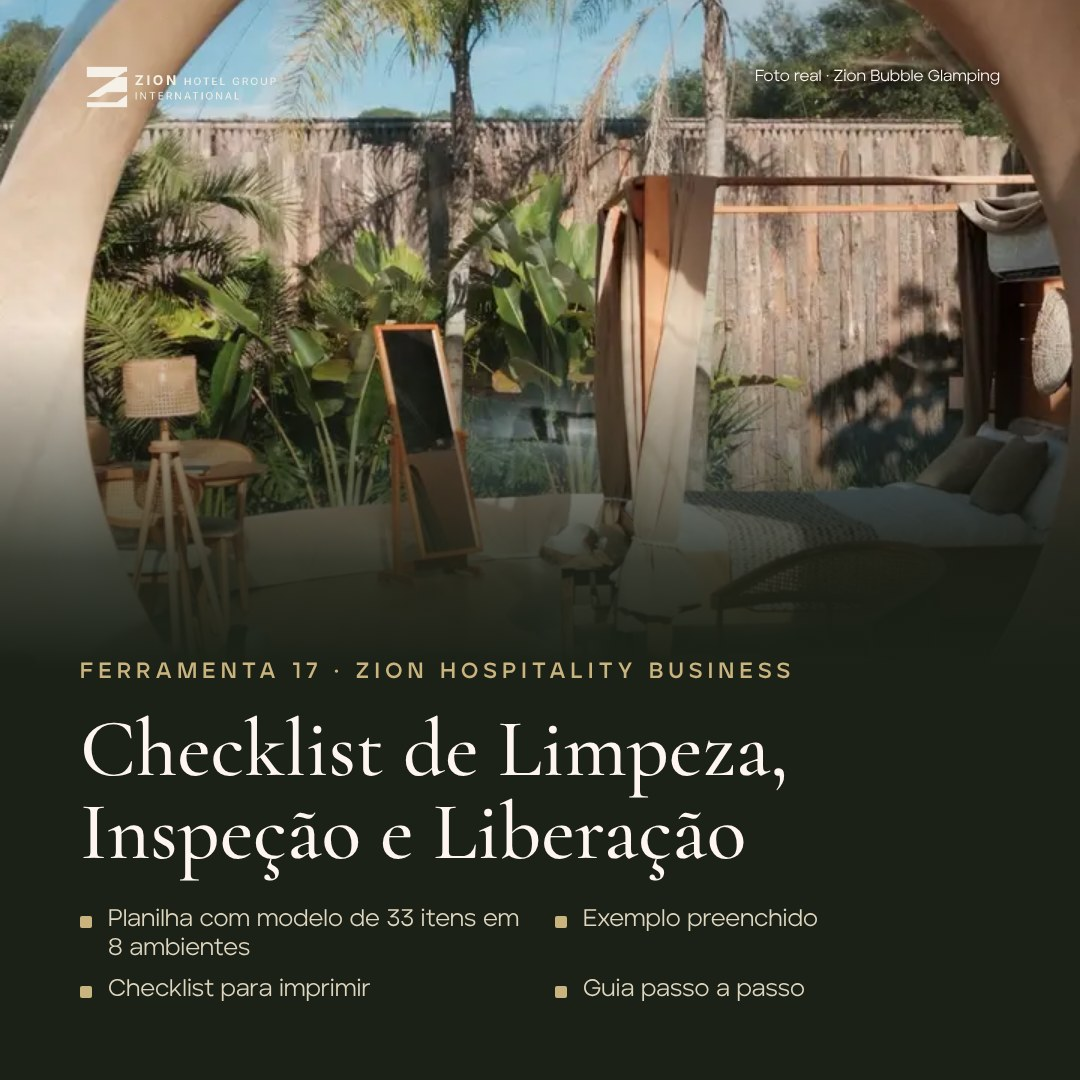
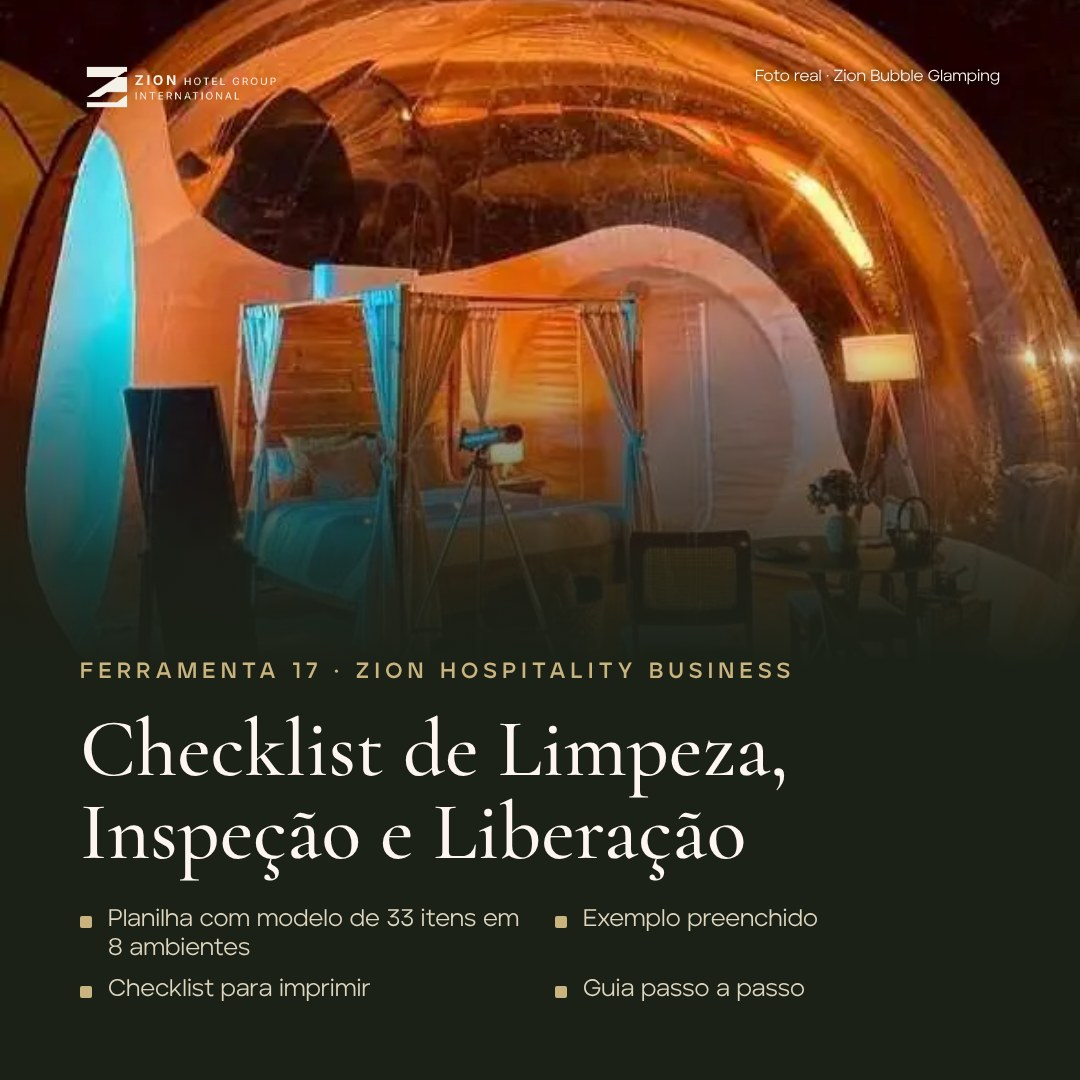
Capas no estilo de fim de tarde com fotos reais da Zion (store/noite e store/noturna)
Claude-Session: https://claude.ai/code/session_01BzUk5Z24QEezPbs2zCke5y

diff --git a/producao/utilitarios/build_entrega.py b/producao/utilitarios/build_entrega.py
@@ -7,7 +7,7 @@ P = R / "docs/p/adbc67069af26ae0"
 E = html.escape
 
 PRODUTOS = [
-    dict(pasta="checklist-17", num="17", foto="op05", titulo="Checklist de Limpeza, Inspeção e Liberação",
+    dict(pasta="checklist-17", num="17", foto="store/noite", pos="center 88%", zoom=1.0, titulo="Checklist de Limpeza, Inspeção e Liberação",
          promessa="Aprenda o passo a passo para limpar, conferir e liberar cada unidade com o mesmo padrão, sabendo quem fez, quem conferiu e o que ficou pendente.",
          itens=["Planilha com modelo de 33 itens em 8 ambientes", "Exemplo preenchido", "Checklist para imprimir", "Guia passo a passo"],
          passos=["Leia o guia (cerca de 15 minutos).", "Abra o exemplo e veja uma troca preenchida.", "Na planilha em branco, ajuste o modelo à sua unidade e defina quem limpa e quem confere.", "Use na próxima troca de hóspede: libere só quando a situação ficar verde."],
@@ -15,7 +15,7 @@ PRODUTOS = [
                    ("Checklist-Limpeza-Zion-EM-BRANCO.xlsx", "Planilha · versão em branco", "Excel, Google Sheets ou LibreOffice"),
                    ("Checklist-Limpeza-Zion-EXEMPLO.xlsx", "Planilha · exemplo preenchido", "Dados fictícios"),
                    ("Checklist-Imprimivel.pdf", "Checklist para imprimir", "PDF · 2 páginas")]),
-    dict(pasta="kit-mensagens-11", num="11", foto="op11", titulo="Kit de Mensagens de Chegada e Saída",
+    dict(pasta="kit-mensagens-11", num="11", foto="store/noturna", pos="78% 75%", zoom=1.45, titulo="Kit de Mensagens de Chegada e Saída",
          promessa="Aprenda o passo a passo para enviar, no momento certo, as mensagens de confirmação, acesso, chegada, apoio durante a estadia e saída.",
          itens=["Planilha que monta 10 mensagens", "Data de envio de cada uma", "Modelos em PDF", "Guia passo a passo"],
          passos=["Leia o guia (cerca de 10 minutos).", "Abra o exemplo e veja as 10 mensagens montadas.", "Na planilha em branco, preencha a ficha da hospedagem uma vez.", "A cada reserva, preencha nome e datas e siga a coluna Data de envio."],
@@ -32,7 +32,7 @@ def capa_html(p):
     lis = "".join(f"<li>{E(i)}</li>" for i in p["itens"])
     return f"""<!doctype html><html><head><meta charset="utf-8"><style>{FONTES_LOCAIS}
 *{{box-sizing:border-box;margin:0}} body{{width:1080px;height:1080px;overflow:hidden;background:#1B2117;font-family:Aventa,Arial,sans-serif;color:#FEF5F0}}
-.foto{{position:absolute;inset:0;width:100%;height:62%;object-fit:cover}}
+.foto{{position:absolute;inset:0;width:100%;height:66%;object-fit:cover}} body{{overflow:hidden}}
 .grad{{position:absolute;inset:0;background:linear-gradient(180deg,rgba(27,33,23,0) 30%,rgba(27,33,23,.85) 52%,#1B2117 62%)}}
 .txt{{position:absolute;left:80px;right:80px;bottom:76px}}
 .logo{{position:absolute;top:60px;left:80px;height:54px}}
@@ -41,7 +41,7 @@ h1{{font-family:Cormorant,Georgia,serif;font-weight:500;font-size:82px;line-heig
 ul{{list-style:none;padding:0;display:grid;grid-template-columns:1fr 1fr;gap:12px 30px}} li{{font-size:24px;color:#DED6BF;padding-left:28px;position:relative}}
 li:before{{content:"";position:absolute;left:0;top:11px;width:12px;height:12px;background:#C9B37E;border-radius:2px}}
 .cred{{position:absolute;top:66px;right:80px;font-size:16px;color:#FEF5F0;text-shadow:0 1px 6px rgba(0,0,0,.9)}}</style></head><body>
-<img class="foto" src="{(R/'docs/assets/operacoes'/(p['foto']+'.webp')).as_uri()}"><div class="grad"></div>
+<img class="foto" style="object-position:{p.get('pos','center')};transform:scale({p.get('zoom',1)});transform-origin:{p.get('pos','center')}" src="{(R/'docs/assets'/(p['foto'] if '/' in p['foto'] else 'operacoes/'+p['foto'])).with_suffix('.webp').as_uri()}"><div class="grad"></div>
 <img class="logo" src="{(R/'docs/brand/zion-logo-claro.png').as_uri()}"><div class="cred">Foto real · Zion Bubble Glamping</div>
 <div class="txt"><div class="k">Ferramenta {p['num']} · Zion Hospitality Business</div><h1>{E(p['titulo'])}</h1><ul>{lis}</ul></div></body></html>"""
 

diff --git a/CLAUDE.md b/CLAUDE.md
@@ -72,7 +72,8 @@ Escada de preços (Estratégia Low Ticket Ladeira): ferramentas de R$ 19 → Ars
   - teste de ponta a ponta com Playwright, servindo o jsPDF do pacote npm, porque o cdnjs é bloqueado aqui.
 - **Landing page:** use o molde de `producao/academy01/landing/` (sete bandas, fotos reais por URL pública).
 - **Testes de navegador:** o Playwright já vem instalado (`require('playwright')`).
-- **Ferramenta utilitária (planilha + guia + PDF + página):** use os moldes `producao/utilitarios/17-checklist-limpeza/` e `producao/utilitarios/11-mensagens-chegada-saida/` (build_planilha, test_planilha contra regra independente, build_docs + render.js, empacotar.sh, landing/build_landing.py). Fotos sem pessoas: op04, op05, op07, op08, op09, op10, op11, op12 (op01, op02, op13 e op14 têm pessoas).
+- **Ferramenta utilitária (planilha + guia + PDF + página):** use os moldes `producao/utilitarios/17-checklist-limpeza/` e `producao/utilitarios/11-mensagens-chegada-saida/` (build_planilha, test_planilha contra regra independente, build_docs + render.js, empacotar.sh, landing/build_landing.py). Fotos sem pessoas: op04, op05, op07, op08, op09, op10, op11, op12 e `store/` (noite, noturna, hero, dentro, deck, ceu); op01, op02, op13 e op14 têm pessoas.
+- **Estilo das capas (referência de Bruno, 06/11/2026):** fim de tarde ou noite, luz quente vindo de dentro, madeira, vidro e mata. Prefira `store/noite.webp` e `store/noturna.webp`. As imagens de referência que Bruno mandou são de terceiros ou geradas por IA: servem só de inspiração e nunca entram nos produtos nem no repositório.
 - **Capa e página de acesso:** acrescente o produto em `producao/utilitarios/build_entrega.py` e rode `python3 -I producao/utilitarios/build_entrega.py && node producao/utilitarios/render_capas.js`. Gera `capa.jpg` (1080×1080) e `index.html` (página de acesso) na pasta do produto em `docs/p/...`; ligue a página à oferta com `offers_add_link_delivery` e use a capa no bloco de oferta da página de vendas. `offers_set_product_image` só aceita imagem do armazenamento do ClickMax.
 - **Página no ClickMax:** sem imagens embutidas em base64 (não cabem na chamada); demonstração em HTML puro.
 - **Entrega:** copie os arquivos finais (planilhas e PDFs) para `docs/p/adbc67069af26ae0/<produto>/` e ligue cada um à oferta com `offers_add_file_delivery`, como na Ferramenta 01. O ZIP de `dist/` fica só como cópia. O que ainda depende de Bruno fica em `producao/catalogo/PENDENCIAS_BRUNO.md`.
